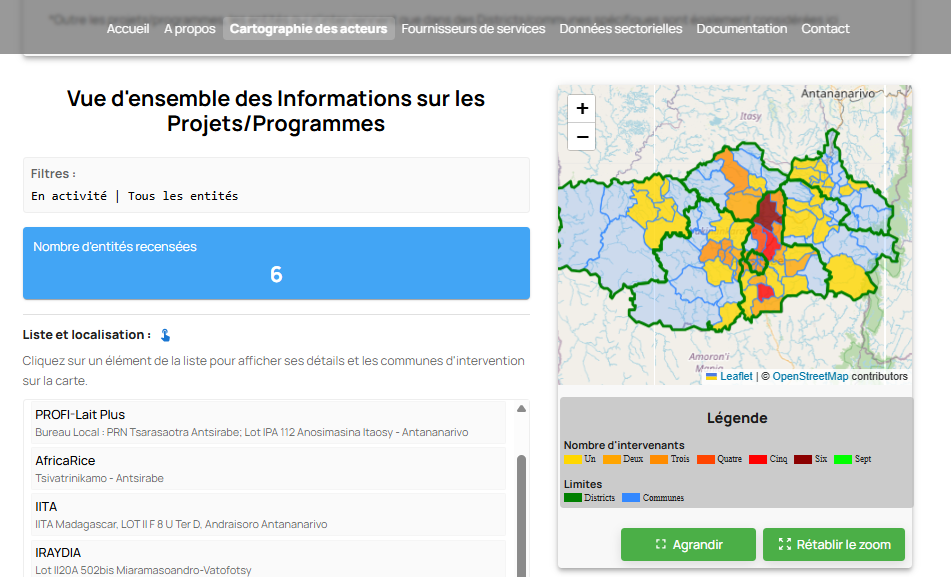
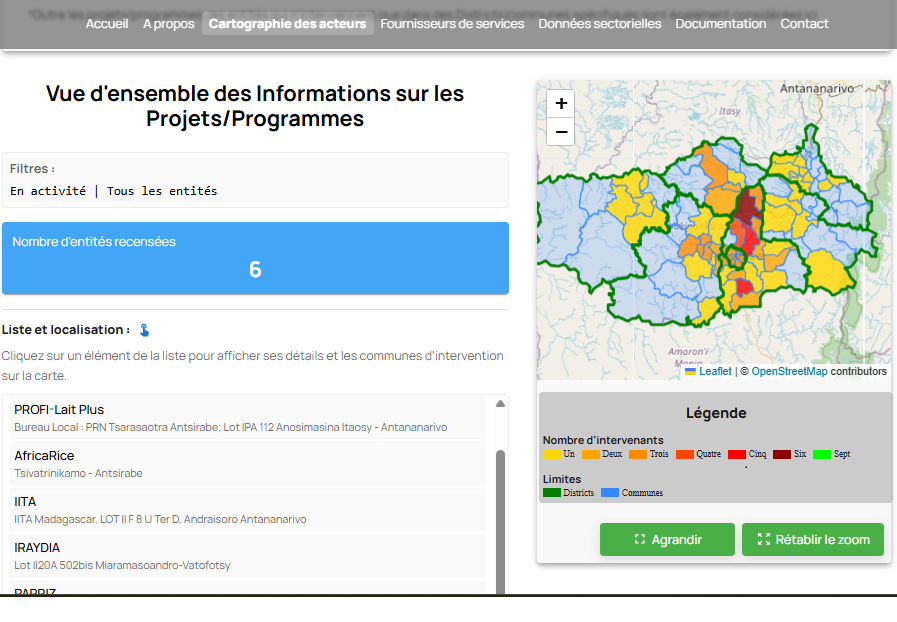
update portfolio and compétences

diff --git a/src/Components/Competences.jsx b/src/Components/Competences.jsx
@@ -18,15 +18,18 @@ import reactLeaflet from "../assets/icons/react-leaflet.svg";
 import flutter from "../assets/icons/flutter.svg";
 import nodejs from "../assets/icons/node-js.svg";
 import sqlite from "../assets/icons/sqlite.svg";
+import postgresql from "../assets/icons/postgresql.svg";
 import fastify from "../assets/icons/fastify.svg";
 import git from "../assets/icons/git.svg";
 import github from "../assets/icons/github.svg";
 import gitlab from "../assets/icons/gitlab.svg";
+import lightroom from "../assets/icons/lightroom.svg";
 import photoshop from "../assets/icons/photoshop.svg";
 import indesign from "../assets/icons/indesign.svg";
 import figma from "../assets/icons/figma.svg";
 import wordpress from "../assets/icons/wordpress.svg";
 import firebase from '../assets/icons/firebase.svg';
+import { light } from '@mui/material/styles/createPalette';
 
 function Competences() {
     const inViewOptions = {
@@ -60,16 +63,17 @@ function Competences() {
             category: 'Frameworks et bibliothèques front-end',
             items: [
                 { title: 'React.js', iconSrc: react, maxValue: 85 },
-                { title: 'React Native', iconSrc: reactNative, maxValue: 50 },
-                { title: 'Next.js', iconSrc: nextjs, maxValue: 75 },
+                { title: 'Flutter', iconSrc: flutter, maxValue: 85 },
+                { title: 'Next.js', iconSrc: nextjs, maxValue: 80 },
                 { title: 'Material UI', iconSrc: mui, maxValue: 85 },
                 { title: 'React Leaflet', iconSrc: reactLeaflet, maxValue: 80 },
-                { title: 'Flutter', iconSrc: flutter, maxValue: 75 },
+                { title: 'React Native', iconSrc: reactNative, maxValue: 60 },
             ],
         },
         {
             category: 'Back-end et Base de données',
             items: [
+                { title: 'PostgreSQL', iconSrc: postgresql, maxValue: 75 },
                 { title: 'Node.js', iconSrc: nodejs, maxValue: 60 },
                 { tittle: 'Sqlite', iconSrc: sqlite, maxValue: 50 },
                 { title: 'Fastify', iconSrc: fastify, maxValue: 40 },
@@ -79,15 +83,16 @@ function Competences() {
         {
             category: 'Contrôle de versions',
             items: [
-                { title: 'Git', iconSrc: git, maxValue: 65 },
-                { title: 'GitHub', iconSrc: github, maxValue: 70 },
+                { title: 'Git', iconSrc: git, maxValue: 70 },
+                { title: 'GitHub', iconSrc: github, maxValue: 85 },
                 { title: 'GitLab', iconSrc: gitlab, maxValue: 40 },
             ],
         },
         {
             category: 'CMS et Outils de design',
             items: [
-                { title: 'Photoshop', iconSrc: photoshop, maxValue: 60 },
+                { title: 'Lightroom', iconSrc: lightroom, maxValue: 75 },
+                { title: 'Photoshop', iconSrc: photoshop, maxValue: 70 },
                 { title: 'InDesign', iconSrc: indesign, maxValue: 50 },
                 { title: 'Figma', iconSrc: figma, maxValue: 65 },
                 { title: 'Wordpress', iconSrc: wordpress, maxValue: 50 },

diff --git a/src/Components/Portfolio.jsx b/src/Components/Portfolio.jsx
@@ -13,7 +13,7 @@ import pdipapp from '../assets/images/pdip-app.png'
 const projects = [
     {
         id: 1,
-        title: 'Site Web de la DRAE Vakinankaratra',
+        title: 'Site Web - DRAE Vak',
         category: 'front',
         context: 'Projet Professionnel',
         techs: ['React', 'material ui', 'leaflet', 'firebase'],
@@ -23,7 +23,7 @@ const projects = [
     },
     {
         id: 2,
-        title: 'DRAE Vak Stats & Administration',
+        title: 'Dashboard - DRAE Vak',
         category: 'front',
         context: 'Projet professionnel',
         techs: ['material ui', 'react.js', 'vite'],
@@ -44,7 +44,7 @@ const projects = [
     },
     {
         id: 4,
-        title: 'Superman React',
+        title: 'E-commerce - Superman',
         category: 'front',
         context: 'évaluation dans le cadre de ma formation react.js',
         techs: ['react.js', 'bootstrap', 'firebase'],
@@ -66,7 +66,7 @@ const projects = [
     },
     {
         id: 6,
-        title: 'Batman React',
+        title: 'E-commerce - Batman',
         category: 'front',
         context: 'réalisé dans le cadre de mon apprentissage de react.js',
         techs: ['react.js', 'bootstrap', 'firebase'],

diff --git a/src/ThemeProvider/ThemeProvider.jsx b/src/ThemeProvider/ThemeProvider.jsx
@@ -1,6 +1,8 @@
 import React, { useEffect, useState } from 'react'
 import '../Styles/App.css'
-import { createTheme, ThemeProvider, CssBaseline, useMediaQuery, alpha } from '@mui/material';
+import { createTheme, ThemeProvider, alpha } from '@mui/material/styles';
+import CssBaseline from '@mui/material/CssBaseline';
+import useMediaQuery from '@mui/material/useMediaQuery';
 import { teal, purple, blueGrey, grey, lightGreen } from '@mui/material/colors'
 
 function CustomThemeProvider({ children, onThemeChange }) {
